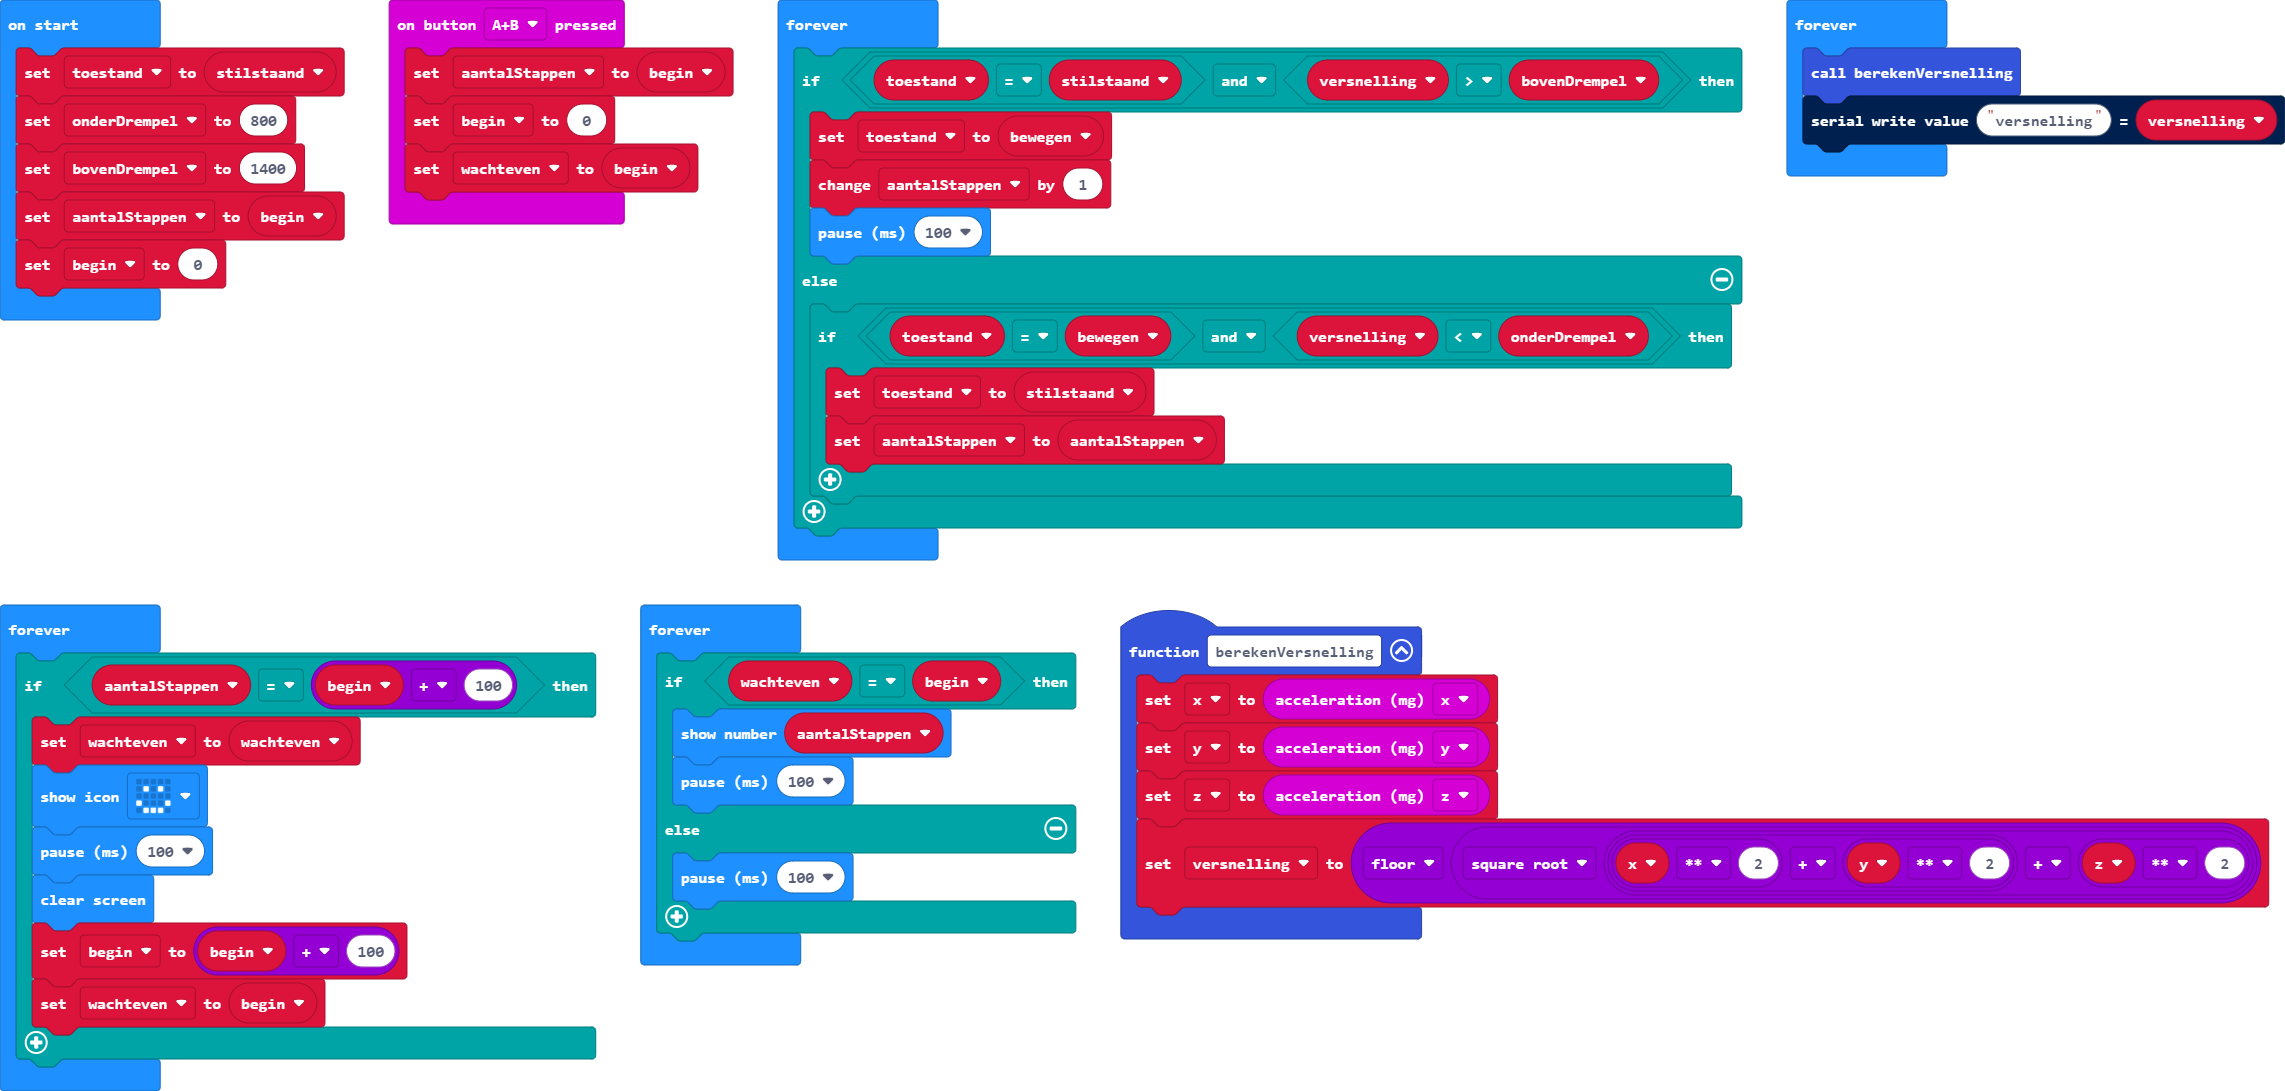
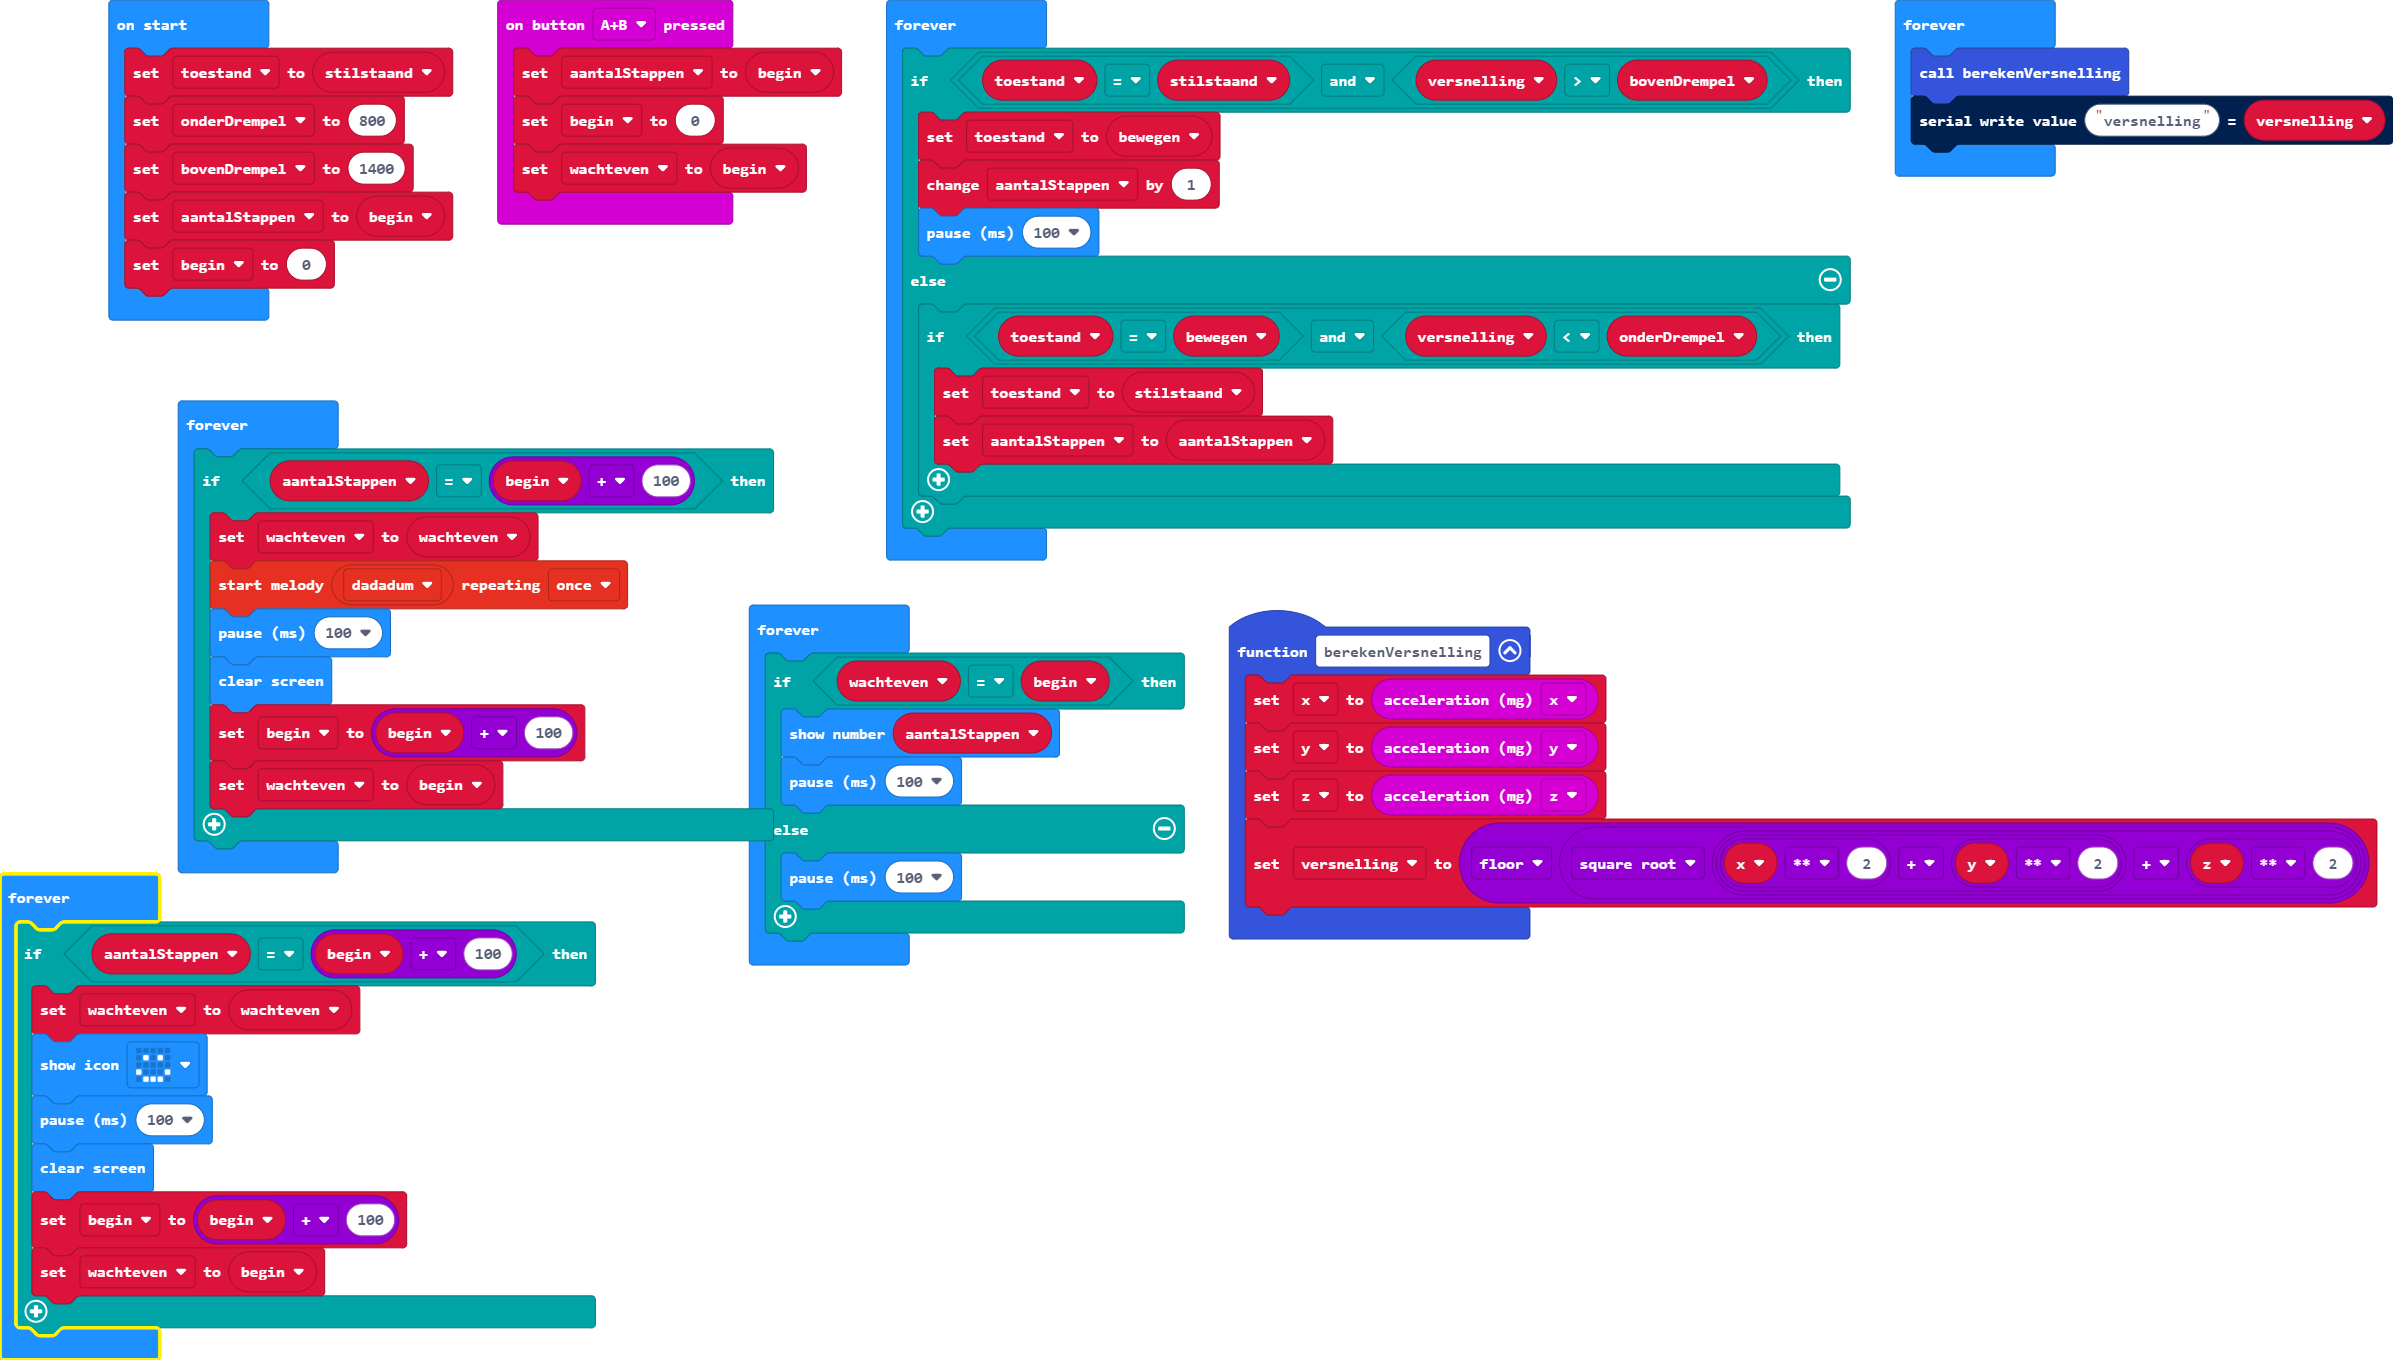
Update main.blocks, main.ts

diff --git a/main.ts b/main.ts
@@ -42,7 +42,7 @@ basic.forever(function () {
 basic.forever(function () {
     if (aantalStappen == begin + 100) {
         wachteven = wachteven
-        basic.showIcon(IconNames.Happy)
+        music.startMelody(music.builtInMelody(Melodies.Dadadadum), MelodyOptions.Once)
         basic.pause(100)
         basic.clearScreen()
         begin = begin + 100
@@ -55,5 +55,15 @@ basic.forever(function () {
         basic.pause(100)
     } else {
         basic.pause(100)
+    }
+})
+basic.forever(function () {
+    if (aantalStappen == begin + 100) {
+        wachteven = wachteven
+        basic.showIcon(IconNames.Happy)
+        basic.pause(100)
+        basic.clearScreen()
+        begin = begin + 100
+        wachteven = begin
     }
 })
